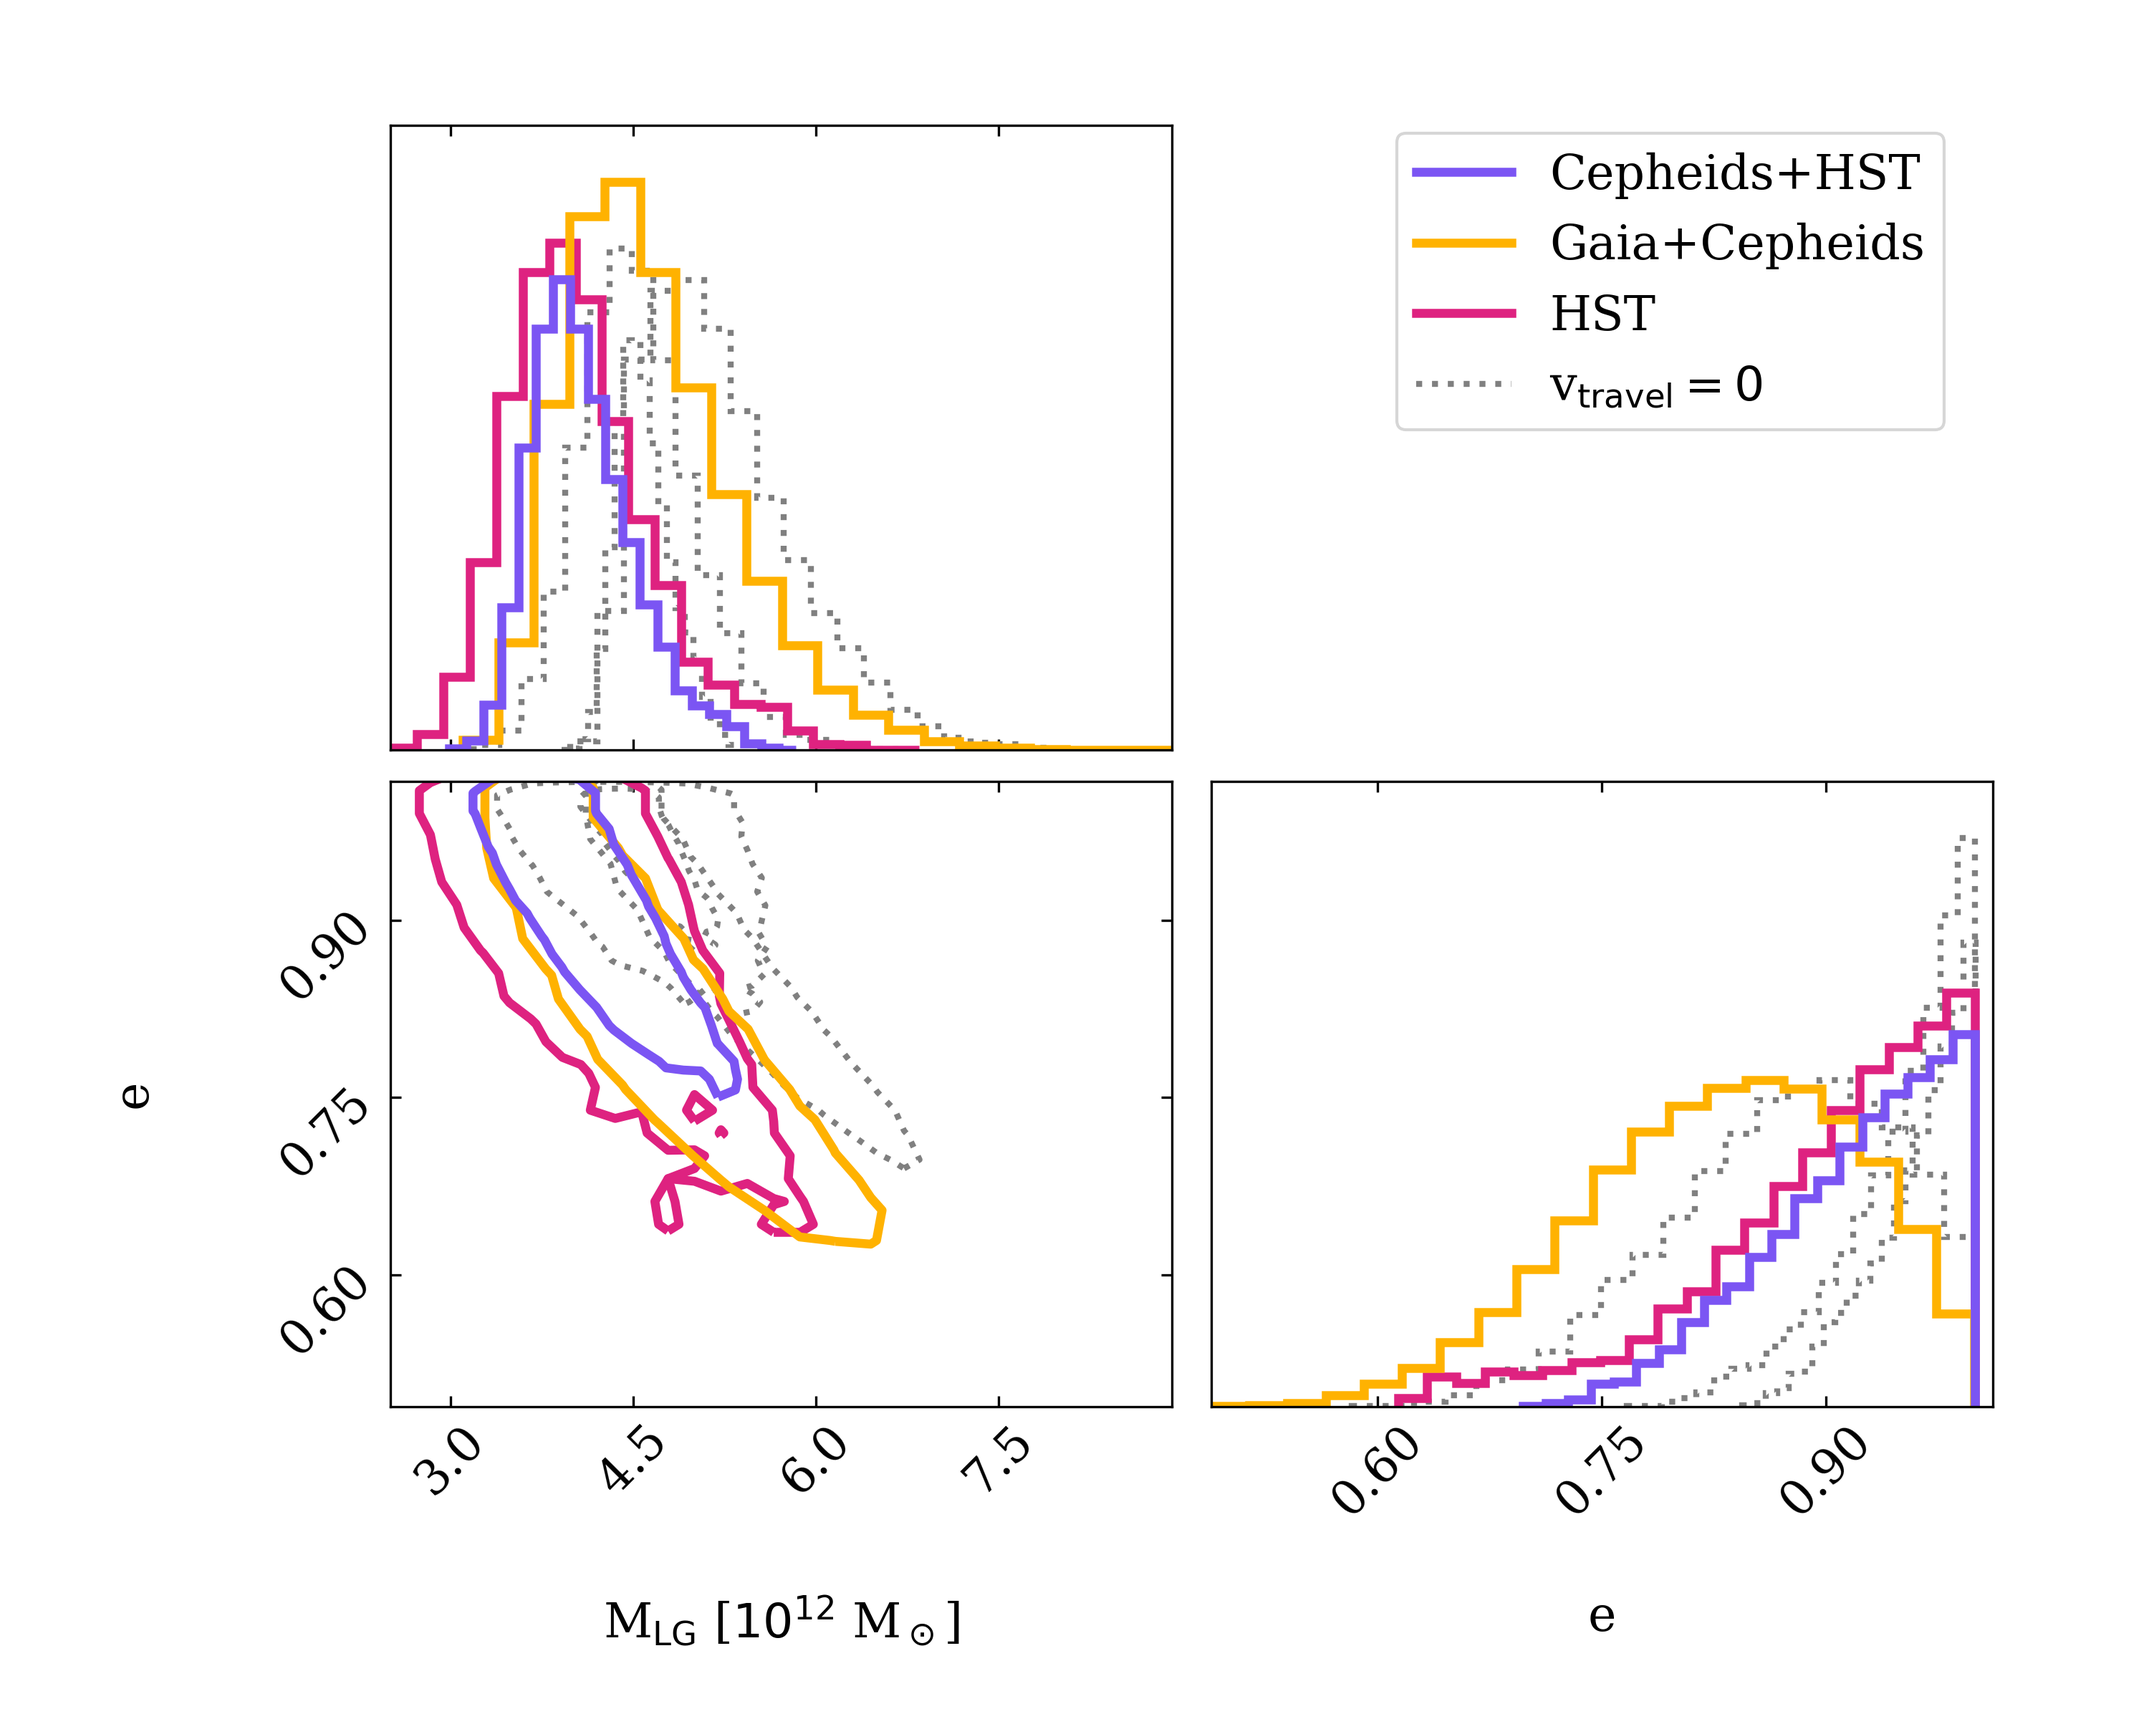
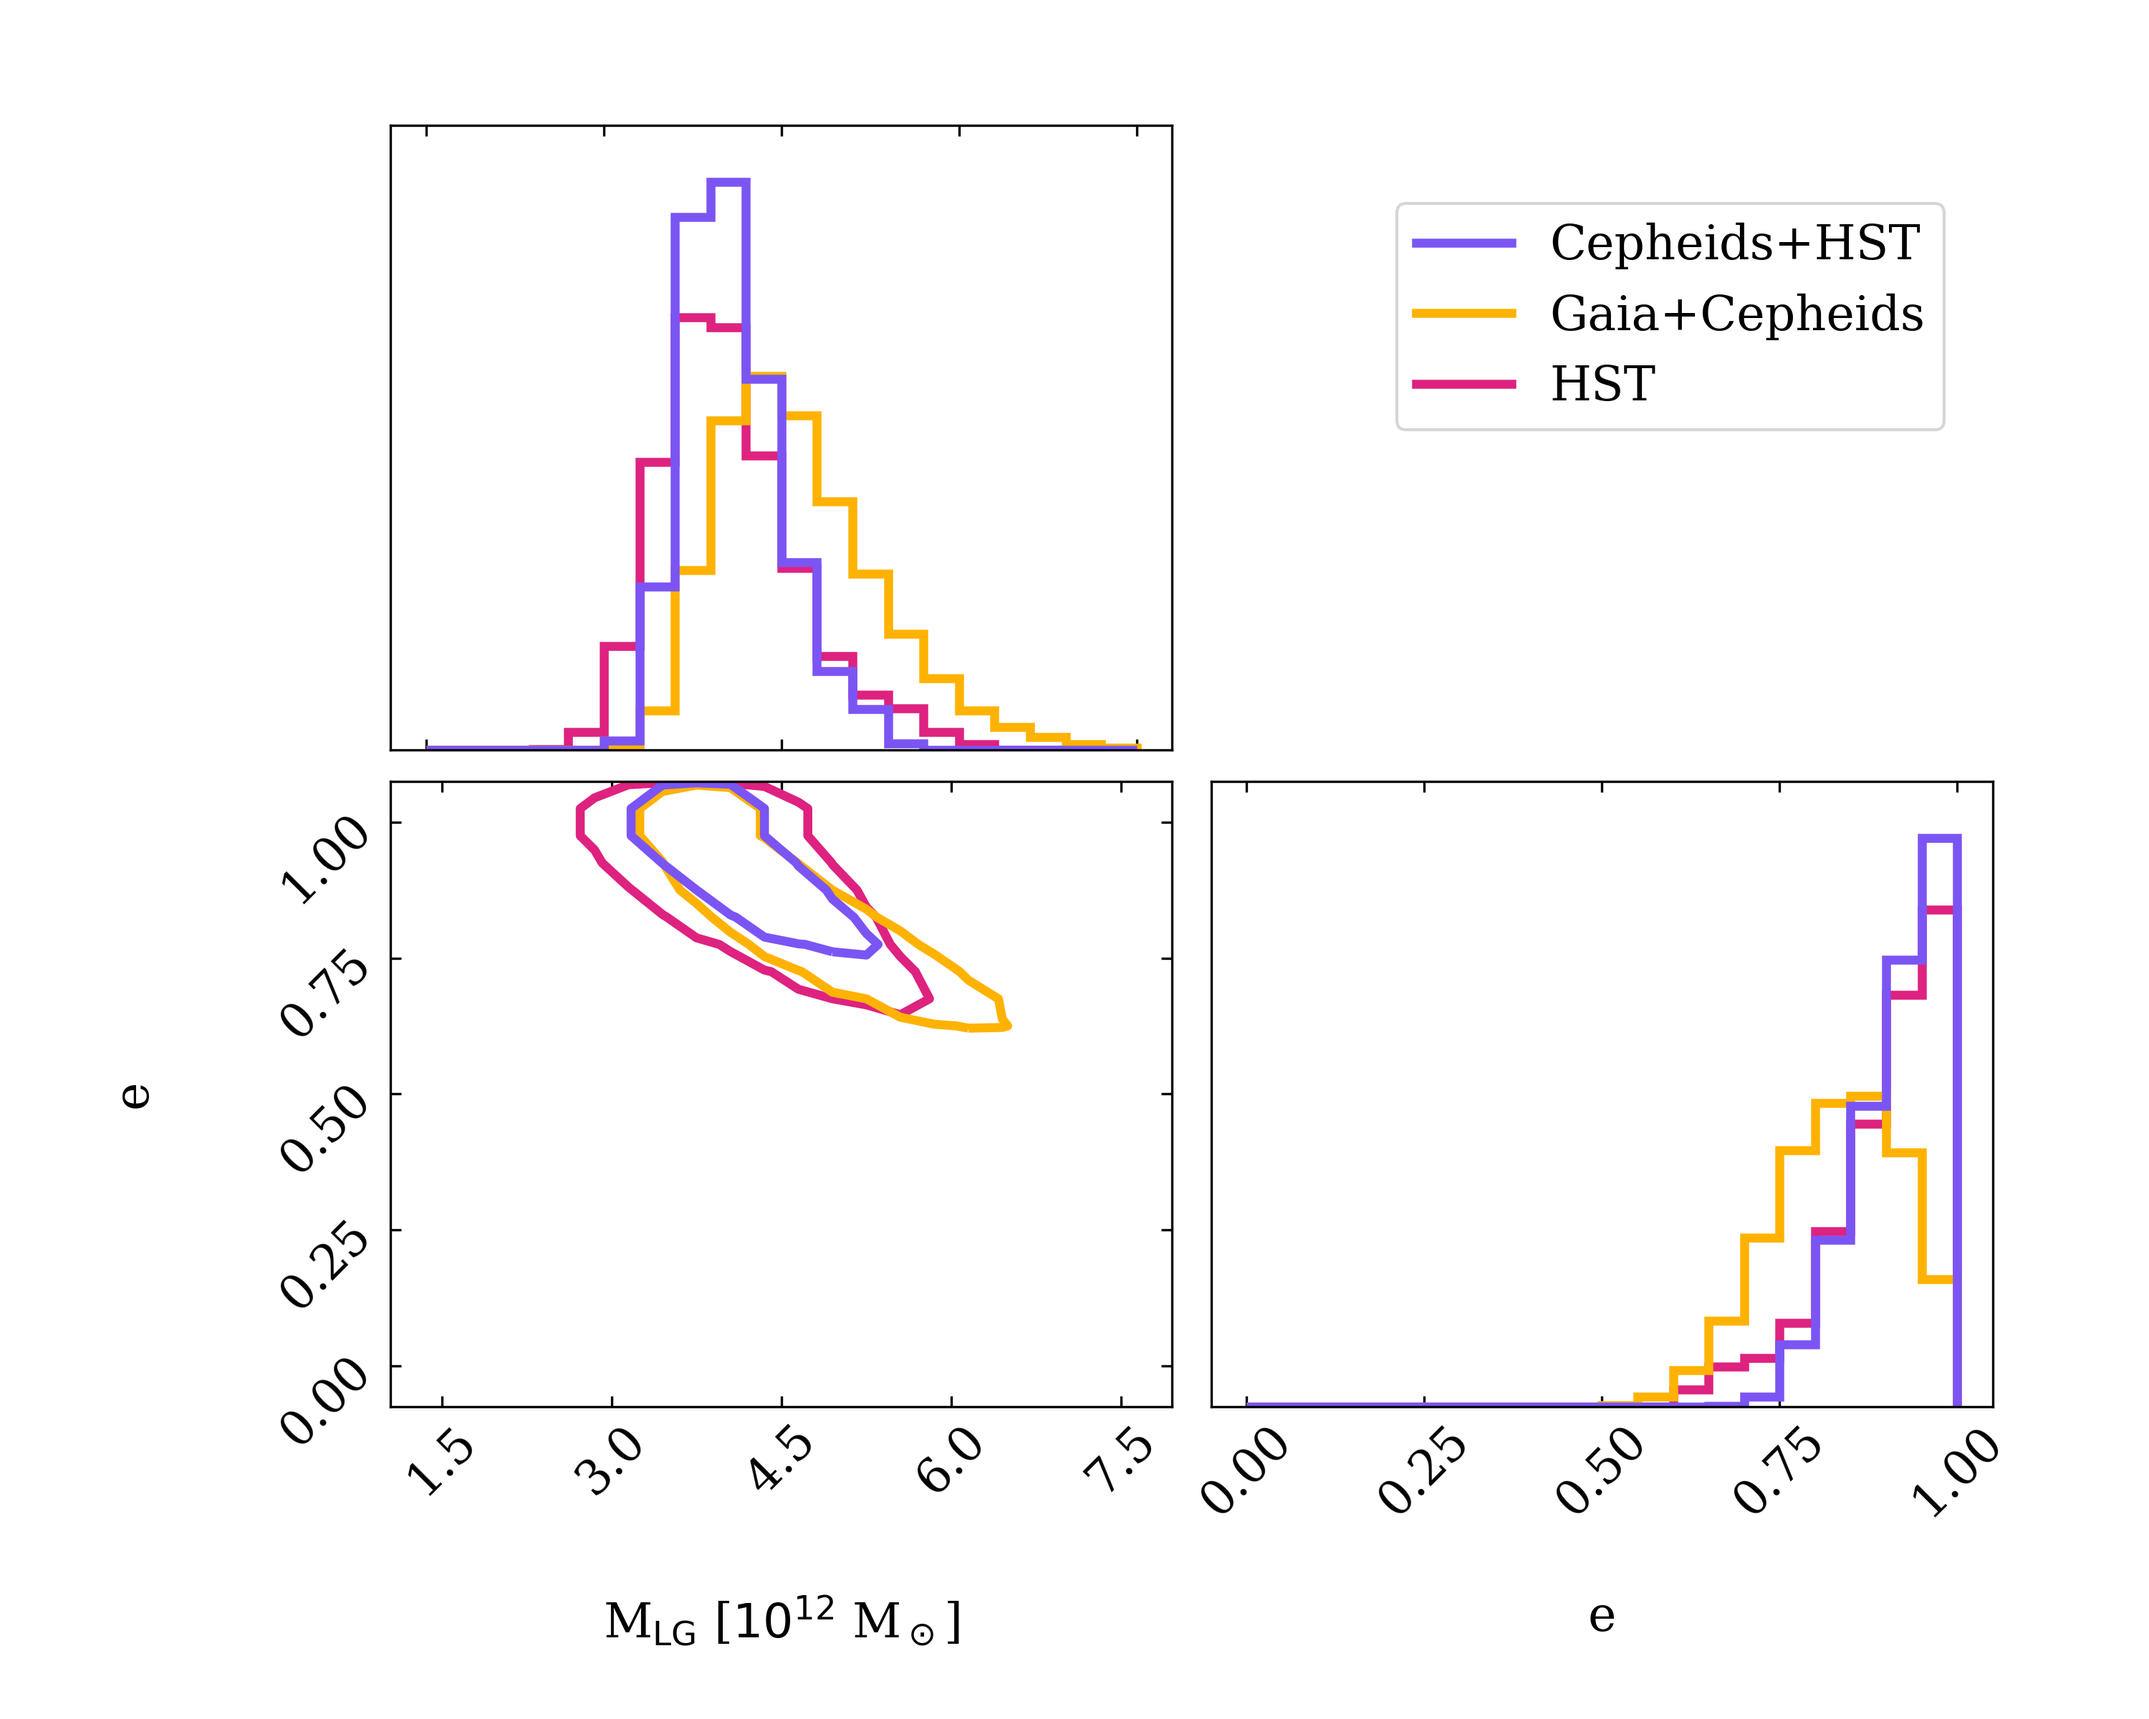
adding new draft w updated fig captions and new figs in appendix

diff --git a/paper/yellowCard_draft.tex b/paper/yellowCard_draft.tex
@@ -413,24 +413,57 @@ We find that as proper motion measurements improve by a factor of $\sim2$, the c
 
 \begin{figure}[htb]
   \centering
-  \includegraphics[width=\columnwidth,trim=1.3cm 0.8cm 1.3cm 1.3cm,clip=true]{analyze-runs-contour.png}
-  \caption{\label{fig:contour} 95\% contours of sampled posterior distributions for two observational datasets (pink and yellow) of a subset of our model parameters: the total mass of the Local Group (\mlg), the distance between the Sun and M31 ($r$), and the eccentricity of the orbit of M31 about a fixed MW ($e$). A stationary MW disk is shown in the dotted contours, while our model, which includes the reflex motion of the MW disk, is shown in solid lines.
-  The distributions for the separations are unchanged between models, as our model does not implement a spatial shift to the location of the MW disk. A comparison between the two models shows that \textbf{the inclusion of the reflex motion of the MW disk systematically lowers the inferred mass of the Local Group} regardless of observational dataset. See text for discussion on the effects on eccentricity.
-  \kc{should I change this plot to have color represent our model and grey be no travel velocity?, also should I only include 2 sets of contours (68 and 95) instead of just 95? also not rn this is a bad quality screenshot but didn't know how to put arrows on the figure w matplotlib because it's using subplots as part of \texttt{corner}}  }
+  \includegraphics[width=\columnwidth,trim=1.3cm 0.8cm 1.3cm 1.3cm,clip=true]
+  {analyze-runs-contour.png}
+  \caption{\label{fig:contour} 95\% confidence contours of sampled posterior 
+  distributions with three observational datasets for a subset of our model 
+  parameters: the total mass of the Local Group (\mlg)
+  % , the distance between the Sun and M31 ($r$), 
+  and the eccentricity of the orbit of M31 about a fixed MW ($e$). 
+  The more radial orbit implied by the~\cite{vdm2012} \textit{HST} proper 
+  motions leads to a lower inferred \mlg\ and a higher
+  eccentricity, while the larger \textit{Gaia} proper motions of
+  ~\cite{Salomon2021} yield a more circular orbit, and thus a lower eccentricity
+   and higher mass system. 
+  % A stationary MW disk is shown in the dotted contours, while our model, 
+  %which includes the reflex motion of the MW disk, is shown in solid lines.
+  % The distributions for the separations are unchanged between models, as our 
+  % model does not implement a spatial shift to the location of the MW disk. 
+  }
 \end{figure}
 
 \begin{figure}[htb]
     \centering
-    \includegraphics[width=\columnwidth]{analyze-runs-MvV.png}
-    \caption{\label{fig:mvsv} Mean inferred Local Group mass as a function of travel velocity magnitude of the MW disk. Dataset 1 (yellow) yields masses that are systematically lower than Dataset 2 (pink), though they display the same general trends with increasing travel velocity. The vertical lines represent simulated travel velocities for stellar tracers at different distances in~\cite{Garavito-Camargo2021b}.
-    The mean Local Group mass corresponding to the observed travel velocity from~\cite{Petersen2021} of 32km/s by the triangle points, including the 1-$\sigma$ spread on the mass at that travel velocity. \textbf{As the travel velocity of the Milky Way disk increases, the inferred Local Group mass decreases} before leveling off around 80km/s.
+    \includegraphics[width=\columnwidth]{analyze-runs-MvsV.png}
+    \caption{\label{fig:mvsv} 
+    Mean inferred Local Group mass as a function of travel velocity 
+    magnitude of the MW disk. 
+    The larger \textit{Gaia} proper motions (yellow) lead to higher transverse
+    motion and thus higher mass than either of the \textit{HST} proper motion
+    datasets (pink and purple), though they display the same general trends with increasing travel velocity. 
+    The vertical lines represent simulated travel velocities for 
+    stellar tracers at different distances in~\cite{Garavito-Camargo2021b}.
+    The mean Local Group mass corresponding to the observed travel velocity 
+    from~\cite{Petersen2021} of 32km/s (triangle points) and the 1-$\sigma$ 
+    spread on the mass is shown for comparison. 
+    \textbf{The inclusion of the reflex motion of the MW disk systematically 
+    lowers the inferred mass of the Local Group} regardless of observational 
+    dataset.
+    \kc{make sense of the leveling off at 70km/s.}
+    \kc{also maybe add to x values of points to put them next to each other? 
+    instead of overlapping?}
     }
   \end{figure}
 
 \begin{figure}[htb]
     \centering
     \includegraphics[width=\columnwidth]{analyze-runs-deltaMvsPM.png}
-    \caption{\label{fig:mvspm} Improvement in the inferred Local Group mass as a function of fractional improvement in proper motion errors. The standard deviation in the mass decreases with decreasing proper motion error, and in particular, decrease by a factor of $\sim2.5$ for PMs that are 4 times smaller than in Dataset 2. \textbf{As future \textit{Gaia} data releases provide improved proper motion errors, constraints on the Local Group mass from the Timing Argument can improve by a factor of $>$2.}
+    \caption{\label{fig:mvspm} Improvement in the inferred Local Group mass as a function of fractional improvement in proper motion errors. 
+    The standard deviation in the mass decreases with decreasing proper motion 
+    error, and in particular, decrease by a factor of $\sim2.5$ for PMs that are 
+    4 times smaller than in Dataset 2. 
+    \textbf{As future \textit{Gaia} data releases provide improved proper motion errors, constraints on the Local Group mass from the Timing Argument can 
+    improve by a factor of $>$2.}
     }
 \end{figure}
 
@@ -545,7 +578,26 @@ Thus, we elect to disregard the effects of an M31 reflex motion.
 \subsection{Other?}
 Concluding remarks
 
-
+\appendix
+Currently, appendix only includes the corner plots for all of the 5 model parameters for each of the three datasets. 
+\begin{figure*}[htb]
+  \centering
+  \includegraphics[width=0.8\columnwidth]{analyze-runs-all-vdm2012.png}
+  \caption{\label{fig:contour-vdm}
+  }
+\end{figure*}
+\begin{figure*}[htb]
+  \centering
+  \includegraphics[width=0.8\columnwidth]{analyze-runs-all-fiducial2021.png}
+  \caption{\label{fig:contour-fiducial}
+  }
+\end{figure*}
+\begin{figure}[htb]
+  \centering
+  \includegraphics[width=0.8\columnwidth]{analyze-runs-all-Dataset3.png}
+  \caption{\label{fig:contour-dataset3}
+  }
+\end{figure}
 
 % \software{
 %     Astropy \citep{astropy, astropy:2018},
